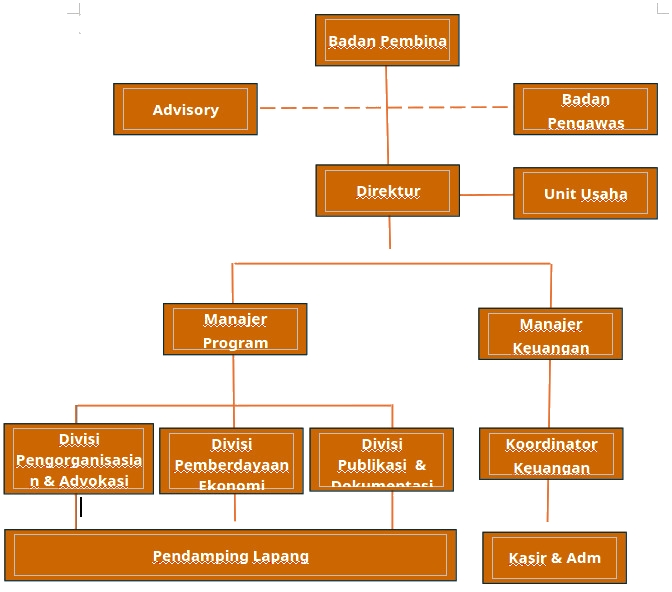
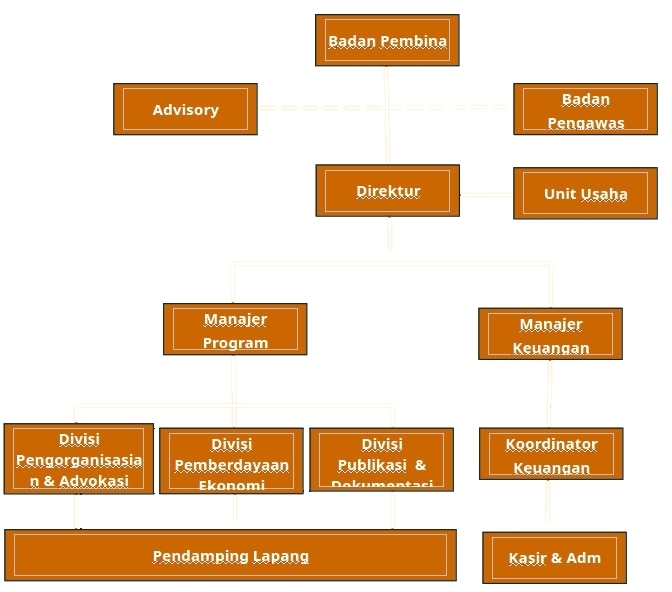
change image structure, change caption in wa

diff --git a/src/components/Structure.jsx b/src/components/Structure.jsx
@@ -36,14 +36,67 @@ export default function Structure() {
           transition={{ duration: 0.5 }}
           className="max-w-5xl mx-auto rounded-3xl bg-bg-light dark:bg-zinc-900 border border-secondary/10 dark:border-white/10 p-2 sm:p-3 shadow-xl overflow-hidden premium-card"
         >
-          {/* Responsive Image Container */}
-          <div className="w-full rounded-2xl overflow-hidden bg-white border border-zinc-200/80 dark:border-zinc-800/50 shadow-md p-4 sm:p-8 flex justify-center items-center">
-            <img
-              src={structureImg}
-              alt="Struktur Organisasi PPSW Banten"
-              className="w-full max-w-full h-auto object-contain rounded-2xl select-none"
-              draggable={false}
-            />
+          {/* Responsive Image Container with SVG Connectors */}
+          <div className="w-full rounded-2xl overflow-hidden bg-white border border-zinc-200/80 dark:border-zinc-800/50 shadow-md p-4 sm:p-8 flex justify-center items-center relative">
+            <div className="relative w-full max-w-full">
+              <img
+                src={structureImg}
+                alt="Struktur Organisasi PPSW Banten"
+                className="w-full h-auto object-contain rounded-2xl select-none block"
+                draggable={false}
+              />
+              {/* Responsive SVG Overlay for Connector Lines */}
+              <svg
+                viewBox="0 0 672 592"
+                className="absolute inset-0 w-full h-full pointer-events-none select-none"
+                xmlns="http://www.w3.org/2000/svg"
+              >
+                {/* 1. Pembina (Box 0) to Direktur (Box 3) */}
+                <line x1="387" y1="64" x2="387" y2="166" stroke="#27272a" strokeWidth="2.5" />
+
+                {/* 2. Pengawas (Box 1) to Penasihat (Box 2) - coordination line */}
+                <line x1="255" y1="108" x2="515" y2="108" stroke="#27272a" strokeWidth="2" strokeDasharray="5,4" />
+
+                {/* 3. Direktur (Box 3) to Unit Usaha (Box 4) */}
+                <line x1="458" y1="191" x2="515" y2="191" stroke="#27272a" strokeWidth="2" />
+
+                {/* 4. Direktur (Box 3) to Managers (Box 5 & 6) fork */}
+                {/* Vertical from bottom of Box 3 */}
+                <line x1="387" y1="215" x2="387" y2="260" stroke="#27272a" strokeWidth="2" />
+                {/* Horizontal segment connecting managers */}
+                <line x1="234" y1="260" x2="550" y2="260" stroke="#27272a" strokeWidth="2" />
+                {/* Vertical down to Manajer Program */}
+                <line x1="234" y1="260" x2="234" y2="304" stroke="#27272a" strokeWidth="2" />
+                {/* Vertical down to Manajer Keuangan */}
+                <line x1="550" y1="260" x2="550" y2="309" stroke="#27272a" strokeWidth="2" />
+
+                {/* 5. Manajer Program (Box 5) to Divisions (Box 7, 8, 9) fork */}
+                {/* Vertical from bottom of Box 5 */}
+                <line x1="234" y1="353" x2="234" y2="390" stroke="#27272a" strokeWidth="2" />
+                {/* Horizontal segment connecting divisions */}
+                <line x1="78" y1="390" x2="381" y2="390" stroke="#27272a" strokeWidth="2" />
+                {/* Vertical down to Divisi Pengorganisasian & Advokasi */}
+                <line x1="78" y1="390" x2="78" y2="424" stroke="#27272a" strokeWidth="2" />
+                {/* Vertical down to Divisi 2 */}
+                <line x1="231" y1="390" x2="231" y2="429" stroke="#27272a" strokeWidth="2" />
+                {/* Vertical down to Divisi 3 */}
+                <line x1="381" y1="390" x2="381" y2="429" stroke="#27272a" strokeWidth="2" />
+
+                {/* 6. Manajer Keuangan (Box 6) to Koordinator Keuangan (Box 10) */}
+                <line x1="550" y1="358" x2="550" y2="429" stroke="#27272a" strokeWidth="2" />
+
+                {/* 7. Koordinator Keuangan (Box 10) to Kasir & Adm (Box 12) */}
+                <line x1="550" y1="478" x2="550" y2="533" stroke="#27272a" strokeWidth="2" />
+
+                {/* 8. Divisions (Box 7, 8, 9) to Pendamping Lapang (Box 11) */}
+                {/* Divisi Pengorganisasian & Advokasi down to Pendamping Lapang */}
+                <line x1="78" y1="492" x2="78" y2="530" stroke="#27272a" strokeWidth="2" />
+                {/* Divisi 2 down to Pendamping Lapang */}
+                <line x1="231" y1="492" x2="231" y2="530" stroke="#27272a" strokeWidth="2" />
+                {/* Divisi 3 down to Pendamping Lapang */}
+                <line x1="381" y1="489" x2="381" y2="530" stroke="#27272a" strokeWidth="2" />
+              </svg>
+            </div>
           </div>
 
           {/* Explanation Text */}

diff --git a/src/components/Events.jsx b/src/components/Events.jsx
@@ -9,25 +9,36 @@ export default function Events() {
   const eventsData = [
     {
       id: 1,
-      title: 'Festival Perempuan Berdaya 2026',
-      date: '25 Juli 2026',
-      time: '09:00 - 18:00 WIB',
-      location: 'Jakarta Creative Hub',
-      desc: 'Pameran kreasi produk UMKM perempuan binaan, talkshow kepemimpinan bersama tokoh nasional, dan workshop digital coding dasar gratis.',
+      title: 'Musyawarah Koperasi Perempuan Banten',
+      date: '12 Agustus 2026',
+      time: '09:00 - 16:00 WIB',
+      location: 'Aula Sekretariat PPSW Banten, Pandeglang',
+      desc: 'Konsolidasi tahunan perwakilan pengurus koperasi perempuan tingkat basis se-Provinsi Banten guna penguatan modal usaha dan tata kelola.',
       status: 'Pendaftaran Dibuka',
       statusColor: 'bg-primary/10 text-primary dark:bg-primary/20 dark:text-accent-light',
       gradient: 'from-primary to-accent'
     },
     {
       id: 2,
-      title: 'Pelatihan UMKM Desa Binaan',
+      title: 'Pelatihan Literasi Keamanan & Finansial Digital',
       date: '05 September 2026',
-      time: '08:00 - 15:00 WIB',
-      location: 'Aula Kabupaten Sumedang',
-      desc: 'Mentoring tatap muka intensif mencakup cara pengolahan pangan sehat higienis, pembuatan kemasan kreatif, dan pendaftaran NIB UMKM.',
+      time: '08:00 - 13:00 WIB',
+      location: 'Aula Desa Cikasungka, Tangerang',
+      desc: 'Mentoring tatap muka penggunaan teknologi finansial, e-commerce lokal, dan literasi keamanan digital bagi pelaku usaha mikro perempuan.',
       status: 'Segera Hadir',
       statusColor: 'bg-secondary/10 text-secondary dark:bg-secondary/20 dark:text-accent',
       gradient: 'from-secondary to-secondary-light'
+    },
+    {
+      id: 3,
+      title: 'Sosialisasi Gizi & Kesehatan Reproduksi',
+      date: '20 Oktober 2026',
+      time: '09:00 - 12:00 WIB',
+      location: 'Aula Kecamatan Sumur, Pandeglang',
+      desc: 'Pelatihan pembuatan makanan tambahan bergizi berbasis pangan lokal untuk pencegahan stunting dan edukasi kesehatan reproduksi perempuan.',
+      status: 'Segera Hadir',
+      statusColor: 'bg-primary/10 text-primary dark:bg-primary/20 dark:text-accent-light',
+      gradient: 'from-accent to-primary'
     }
   ];
 

diff --git a/src/components/Testimonials.jsx b/src/components/Testimonials.jsx
@@ -3,6 +3,7 @@ import { Quote, Heart, Sparkles, ChevronLeft, ChevronRight } from 'lucide-react'
 import { motion, AnimatePresence } from 'framer-motion';
 import { Leaf1, LeafBranch, Flower, BlobBackdrop, WatercolorBlob } from './Decorations';
 import ceritaSukses1 from '../assets/image/ceritaSukses1.jpeg';
+import adeTestimoniImg from '../assets/image/ade-testimoni.jpeg';
 
 export default function Testimonials() {
   const [activeIndex, setActiveIndex] = useState(0);
@@ -14,7 +15,7 @@ export default function Testimonials() {
       role: 'Ketua KWPS Tulip Harum',
       location: 'Saketi, Pandeglang',
       program: 'Akademi Paradigta',
-      avatar: 'https://images.unsplash.com/photo-1544005313-94ddf0286df2?auto=format&fit=crop&w=150&h=150&q=80',
+      avatar: adeTestimoniImg,
       featuredImage: ceritaSukses1,
       story: (
         <div className="not-italic text-left space-y-3 font-sans">

diff --git a/src/components/Contact.jsx b/src/components/Contact.jsx
@@ -128,7 +128,7 @@ export default function Contact() {
               </p>
               
               <a
-                href="https://wa.me/6281388451993?text=Halo%20PPSW%20Banten%2C%20saya%20tertarik%20dengan%20program%20yayasan"
+                href="https://wa.me/6281388451993?text=Halo%20PPSW%20BANTEN%2C%20saya%20tertarik%20dengan%20Program%20PPSW%20BANTEN"
                 target="_blank"
                 rel="noopener noreferrer"
                 className="inline-flex items-center justify-center gap-2 px-6 py-3.5 bg-emerald-500 hover:bg-emerald-600 text-white font-bold rounded-xl shadow-lg shadow-emerald-500/20 hover:shadow-emerald-500/30 hover:scale-[1.02] active:scale-[0.98] transition-all cursor-pointer w-full sm:w-auto"